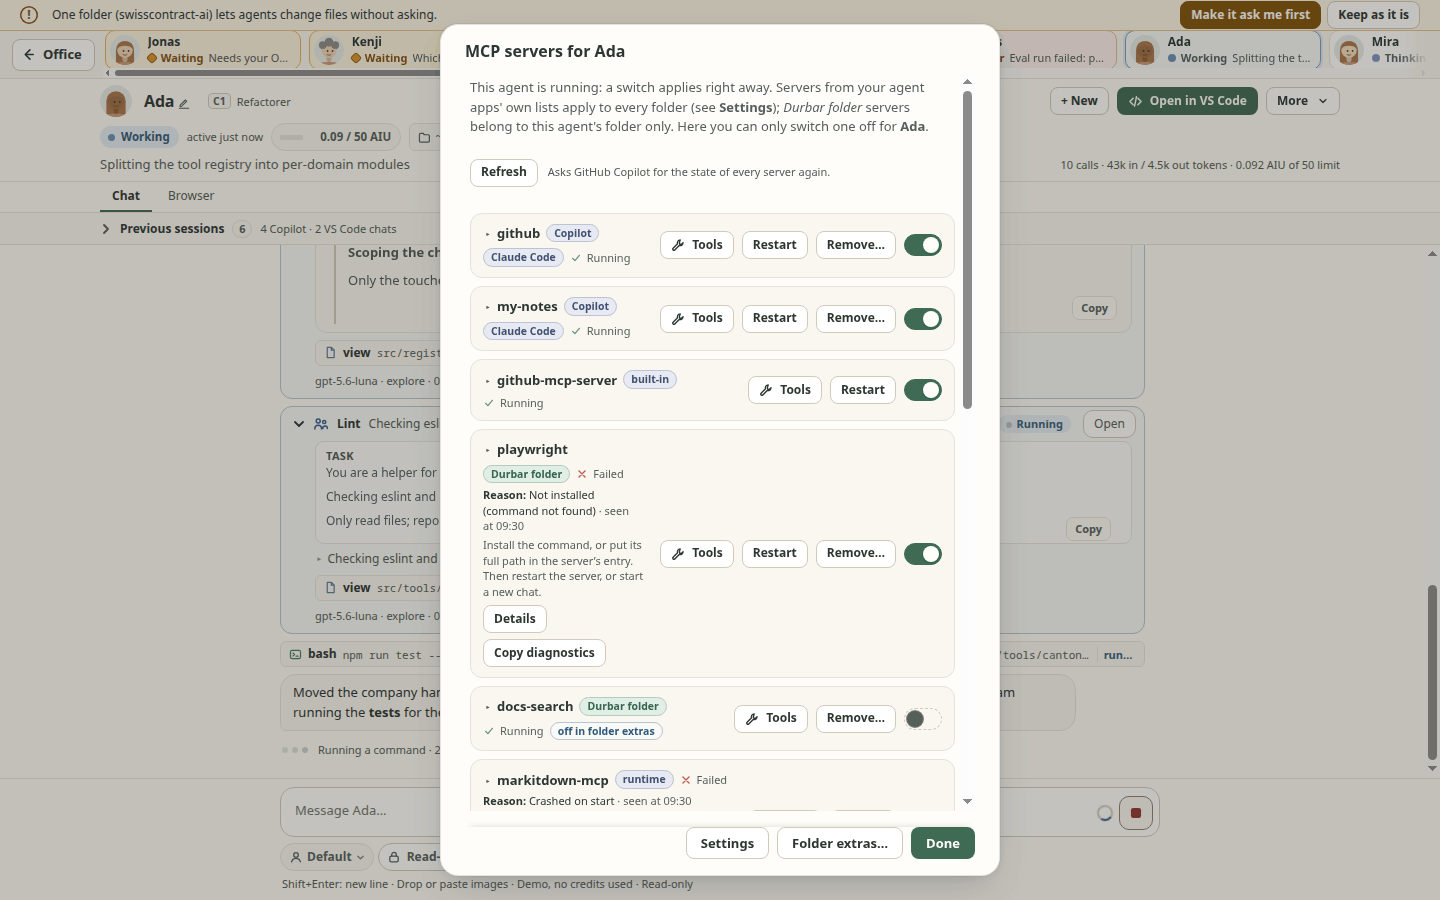
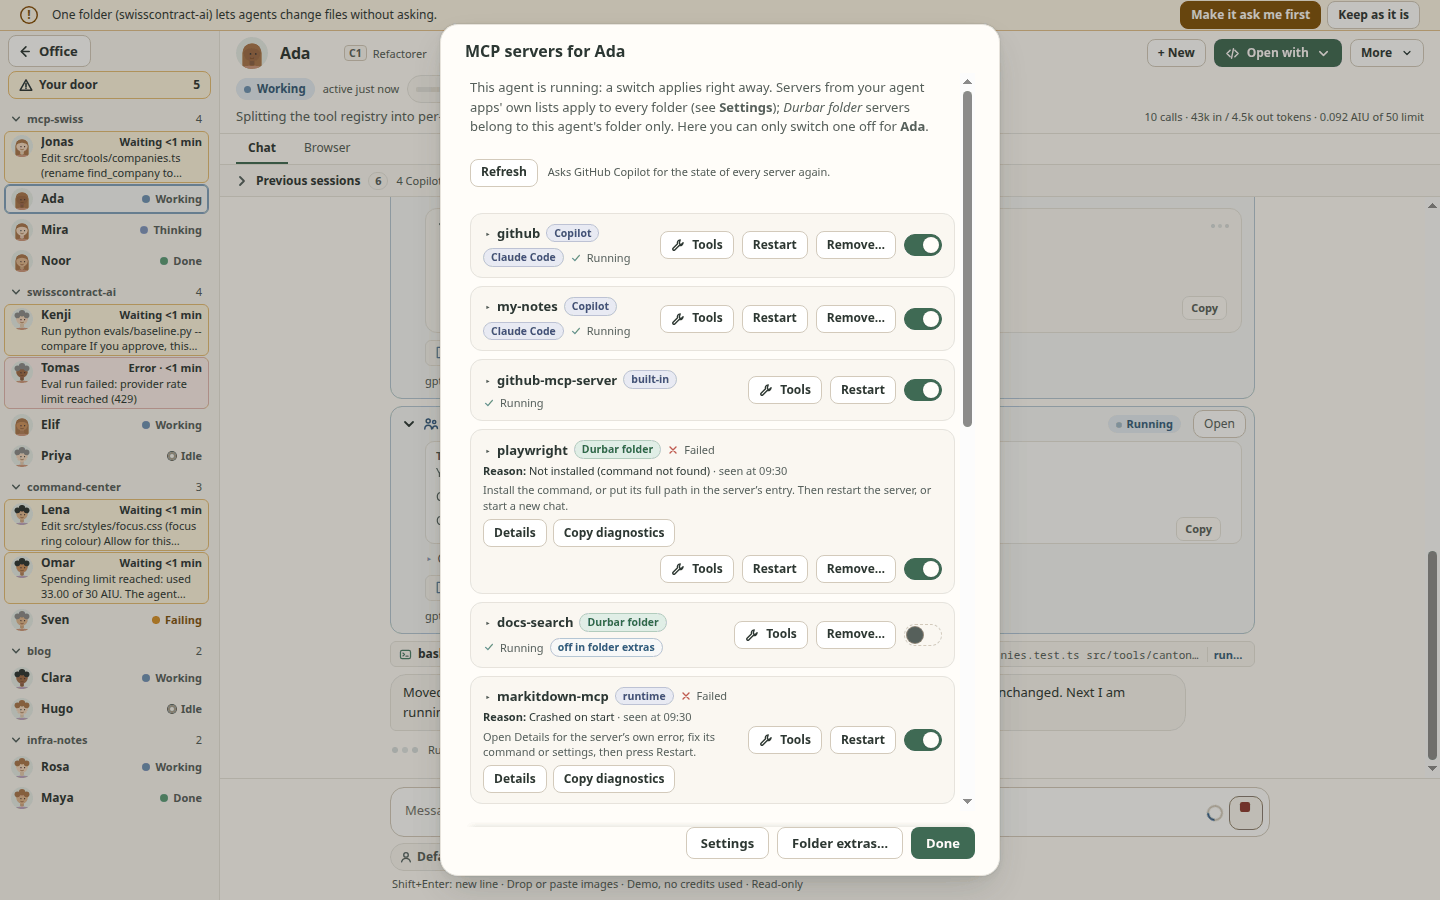
058: a server row keeps a readable text column, the buttons wrap below it (FR-231, #1622)

diff --git a/scripts/check-mcp-row-width.js b/scripts/check-mcp-row-width.js
@@ -1,0 +1,81 @@
+/*
+ * Check for spec 058 (delta 2026-11-12, issue #1622): a failed server's row in a chat's MCP list keeps a readable text column. The name
+ * stays on one line and the help text wraps in full lines; when the buttons do not fit beside the text they wrap below it, they never
+ * squeeze it. Simulator only (no AI credits).
+ *
+ *   npm run check:ui -- --only check-mcp-row-width
+ *   OUT=<folder>  (optional) saves 058-mcp-row-<w>x<h>.png
+ *   MEASURE=1     prints the measured widths and does not assert (for the before/after numbers)
+ *
+ * At 1440x900, 1280x800 and 800x700, in the flat office and Retro: a Copilot chat reports a remote server (shown as `redshift-prod`: its name text is set by hand, the simulator has no long-named remote server) as Failed (refused: needs
+ * sign-in) among a few other servers; the MCP dialog opens and the row's measures are read after two animation frames: the name's text
+ * is on one line, the text column (`.srv-main`) is at least 220px wide (the buttons wrapped below it when they do not fit), the help text
+ * is at most 3 lines, the buttons stay inside the row, nothing is under 10.5px, and the page does not scroll sideways.
+ */
+const assert = require('assert');
+const path = require('path');
+const { helpers, jsLiteral } = require('./driver-helpers');
+const OUT = process.env.OUT || require('os').tmpdir();
+const MEASURE = !!process.env.MEASURE;
+const MIN_TEXT = 220; // px: a readable text column (about 30 characters of 11px text)
+
+const SIZES = [[1440, 900], [1280, 800], [800, 700]];
+const THEMES = [['flat', 'clean-office'], ['retro', 'retro']];
+const SERVERS = [
+  /* the simulator's `?simmcpauth=again` remote server: its row has Tools, Restart, Sign in again..., Remove... and the switch, the widest row there is */
+  { name: 'team-wiki', status: 'failed', transport: 'http', source: 'user', sources: ['copilot'], error: 'connect ECONNREFUSED 127.0.0.1:9' },
+  { name: 'playwright', status: 'failed', transport: 'stdio', source: 'user', error: 'spawn playwright ENOENT', errorClass: 'not-found' },
+  { name: 'tidy', status: 'connected', transport: 'stdio', source: 'user' },
+];
+
+module.exports = async (ctx) => {
+  const H = helpers(ctx);
+  const { js, until } = H;
+  const rowMeasure = (n) => js(`(()=>{const li=[...document.querySelectorAll('#agMcp li.srv')].find(x=>x.dataset.n===${jsLiteral(n)});if(!li)return null;
+    const R=e=>e?e.getBoundingClientRect():null, main=li.querySelector('.srv-main'), act=li.querySelector('.srv-act'), nm=li.querySelector('.srv-name');
+    const lines=e=>{if(!e)return 0;const r=document.createRange();r.selectNodeContents(e);return new Set([...r.getClientRects()].filter(q=>q.width>0).map(q=>Math.round(q.top))).size};
+    const hint=li.querySelector('.srv-hint'), lh=hint?parseFloat(getComputedStyle(hint).lineHeight)||parseFloat(getComputedStyle(hint).fontSize)*1.3:0;
+    const mr=R(main), ar=R(act), lr=R(li);
+    return {row:Math.round(lr.width),text:Math.round(mr.width),act:ar?Math.round(ar.width):0,nameLines:lines(nm),nameW:Math.round(R(nm).width),
+      hintLines:hint?Math.round(hint.getBoundingClientRect().height/lh):0,hintW:hint?Math.round(R(hint).width):0,
+      actBelow:!!ar&&ar.top>=mr.bottom-1, actInside:!!ar&&ar.right<=lr.right+0.5&&ar.left>=lr.left-0.5,
+      btns:[...li.querySelectorAll('.srv-act button')].map(b=>b.textContent.trim()),
+      small:[...li.querySelectorAll('*')].filter(e=>e.getClientRects().length&&[...e.childNodes].some(t=>t.nodeType===3&&t.textContent.trim())&&parseFloat(getComputedStyle(e).fontSize)<10.5).map(e=>e.className),
+      pageX:document.documentElement.scrollWidth<=innerWidth}})()`);
+  const raf2 = () => js(`new Promise(r=>requestAnimationFrame(()=>requestAnimationFrame(()=>r(true))))`);
+
+  for (const [w, h] of SIZES) {
+    for (const [wname, theme] of THEMES) {
+      const tag = `${w}x${h} ${wname}`;
+      await H.load({ w, h, ready: 'fit', focus: true, query: { simmcpauth: 'again' } });
+      await js(`window.THEME.setTheme(${jsLiteral(theme)})`);
+      await H.settle();
+      const cands = await js(`window.__durbarSimUi.agents().filter(a=>a.live&&!a.parent&&(!a.info||!a.info.adapterId||a.info.adapterId==='copilot')).map(a=>a.id)`);
+      const id = cands[0]; // the reported servers below replace whatever the simulator listed for it
+      assert.ok(id, `${tag}: a running Copilot chat: ${JSON.stringify(cands)}`);
+      await js(`document.querySelector(${jsLiteral(`#stage .desk[data-id="${id}"]`)}).click()`);
+      assert.ok(await until(`document.body.classList.contains('panel-open')&&!!document.getElementById('mcpBtn')`), `${tag}: the chat opened with its MCP chip`);
+      await js(`window.__durbarSimEmit({type:'mcp',sessionId:${jsLiteral(id)},timestamp:Date.now(),servers:${jsLiteral(SERVERS)}})`);
+      assert.ok(await until(`!!document.querySelector('#mcpBtn .ct-dot')`), `${tag}: the chip shows the failure`);
+      await js(`document.getElementById('mcpBtn').click()`);
+      assert.ok(await until(`!!document.querySelector('#agMcp li.srv[data-n="team-wiki"] .srv-why')`), `${tag}: the dialog shows the failed row`);
+      await js(`document.querySelector('#agMcp li.srv[data-n="team-wiki"]').scrollIntoView({block:'center'})`);
+      await raf2();
+      await js(`document.querySelector('#agMcp li.srv[data-n="team-wiki"] .srv-name').textContent='redshift-prod'`);
+      await raf2();
+      const m = await rowMeasure('team-wiki');
+      if (MEASURE) console.log(`[1622] ${tag} ${JSON.stringify(m)}`);
+      await H.shot(path.join(OUT, `058-mcp-row-${w}x${h}${wname === 'flat' ? '' : '-' + wname}.png`), { prep: 'mouse', tag: '058' });
+      if (!MEASURE) {
+        assert.ok(m, `${tag}: the row is there`);
+        assert.strictEqual(m.nameLines, 1, `${tag}: the server name is on one line ${JSON.stringify(m)}`);
+        assert.ok(m.text >= MIN_TEXT, `${tag}: the text column is at least ${MIN_TEXT}px wide, not squeezed by the buttons ${JSON.stringify(m)}`);
+        assert.ok(m.hintLines >= 1 && m.hintLines <= 3, `${tag}: the help text wraps in at most 3 lines ${JSON.stringify(m)}`);
+        assert.ok(m.actInside, `${tag}: the buttons stay inside the row ${JSON.stringify(m)}`);
+        assert.ok(m.small.length === 0 && m.pageX, `${tag}: no text under 10.5px, no sideways page scroll ${JSON.stringify(m)}`);
+      }
+      await js(`(()=>{const b=[...document.querySelectorAll('#scrDlg .dbtn .btn')].find(x=>x.textContent==='Done');if(b)b.click();})()`);
+    }
+  }
+  console.log('[058] mcp row width PASS');
+};

diff --git a/src/renderer/screens.css b/src/renderer/screens.css
@@ -26,16 +26,17 @@ body.screen-open .workspace{display:none}
 
 /* server rows */
 .srvs{list-style:none;margin:8px 0 0;padding:0;display:flex;flex-direction:column;gap:8px}
-.srv{display:flex;align-items:center;gap:12px;padding:10px 12px;border:1px solid var(--line);border-radius:12px;background:var(--surface-2)}
+.srv{display:flex;flex-wrap:wrap;align-items:center;gap:8px 12px;padding:10px 12px;border:1px solid var(--line);border-radius:12px;background:var(--surface-2)}
 .srv.amb{background:var(--tone-neutral-faint)}
 .srv-main{flex:1;min-width:0;display:flex;flex-direction:column;gap:4px}
+.srv:has(.srv-why,.srv-hint,.srv-det) .srv-main{flex-basis:240px} /* spec 058 FR-231 (#1622): a row with a reason, help or details text keeps 240px for it; the buttons wrap below when they do not fit beside it. A row with only a name and a state stays on one line */
 .srv-top{display:flex;align-items:center;gap:6px;flex-wrap:wrap;min-width:0}
 .srv-name{font-size:13px}
 .srv-cmd{font:11px/1.35 var(--font-mono);color:var(--ink-2);overflow-wrap:anywhere;white-space:pre-wrap}
 .srv-secrets{display:flex;flex-wrap:wrap;gap:5px}
 .sec{display:inline-flex;gap:6px;align-items:center;height:20px;padding:0 8px;border-radius:var(--r-sm);background:var(--surface-2);border:1px solid var(--line);font:11px var(--font-mono);color:var(--ink-2)}
 .sec i{font-style:normal;letter-spacing:.06em;color:var(--muted)}
-.srv-act{display:flex;align-items:center;gap:8px;flex:none}
+.srv-act{display:flex;flex-wrap:wrap;justify-content:flex-end;align-items:center;gap:8px;flex:none;max-width:100%;margin-left:auto} /* spec 058 FR-231 (#1622): the text column keeps 240px; the buttons wrap below it when they do not fit beside it */
 .mtag{display:inline-block;font-size:10.5px;font-weight:650;padding:1px 7px;border-radius:999px;background:var(--tone-info-faint);border:1px solid var(--tone-info-line);color:var(--tone-info-ink)}
 .mtag.warn{background:var(--tone-warn-bg);border-color:var(--tone-warn-line);color:var(--tone-warn-ink)}
 .swt{--switch-on:var(--accent);--switch-off:var(--tone-neutral-track);position:relative;width:38px;height:22px;border-radius:999px;border:1px solid var(--line-2);background:var(--switch-off);cursor:pointer;padding:0;flex:none;transition:background .15s}

diff --git a/scripts/ui-suite.js b/scripts/ui-suite.js
@@ -129,6 +129,7 @@ const DRIVERS = [
   { name: 'shots-069-harmonize' }, // spec 069 part 2: copy servers between the agent apps' lists
   { name: 'shots-069-mcp-tools' }, // spec 069 part 3: tools on expand, Remove in the agent dialog (058's state words and Details stay)
   { name: 'shots-059-long-url' }, // spec 059 FR-019: a long unbroken name stays in its card, the inbox and the Schedules rows
+  { name: 'check-mcp-row-width' }, // spec 058 delta 2026-11-12 (#1622): a failed server's row keeps a readable text column; the buttons wrap below it
   { name: 'check-activity-table' }, // spec 052 FR-071 delta 2026-10-21 (#474): Tools > Activity renders its rows
   { name: 'check-codex-file-card' }, // spec 052 FR-172: a Codex write card names the files and shows the change
   { name: 'check-theme-art' }, // spec 040 FR-023: a picked theme's characters and gadgets on desks, walkers, places and chips

diff --git a/specs/058-mcp-session-controls/tasks.md b/specs/058-mcp-session-controls/tasks.md
@@ -645,4 +645,4 @@ apps, as T176 allows) after them.
 - [x] T210 Review of PR #1230 (FR-229 e..i): block respects state, switch and org policy; `connected` for a blocked connected server is not a fix; `clearKey` per server key; wait/off/policy/toolCall mutants get asserts; press text for a session not running and Sign in again. Tests in `test:mcpsignin`, `test:mcpwords`, `test:mcpsigninrefresh`; 12 more mutants killed. The cross-folder case is tested through `registerMcpIpc` (a same-name server blocked in another folder keeps its block; the by-name-clear mutant is killed). Claude Code real run [KNOWN GAP].
 - [x] T211 Second review round of PR #1230 (FR-229 j..l): fail-closed cases (stdio, no transport, builtin, source unknown) with M9/M10 mutants killed by their asserts; an explicit `again=true` for a blocked server obeys `canSignInAgainStatus`; shared `isRemoteTransport` (`src/shared/mcp.ts`, streamable-http); a renewal in flight writes no stale block over a call that worked (`test:mcpsigninrefresh`). The simulator's `isRemoteTransport` copy is compared with the shared one by source text and by answers; `isRemoteTransport` and the race guard's equal-tick boundary have labelled asserts.
 - [x] T212 Issue #1424 item 1 (FR-230): `shots-058-mcp-launch` takes the list-open and Settings pictures again in the Photo Real office (`058-mcp-launch-real-*`, `058-mcp-launch-settings-real-*`; not committed, not linked), with a labelled assert that the world is the Real office and the strip layout asserts. Mutant: `setOfficeView('real')` made a no-op fails the labelled assert. `[KNOWN GAP]` dark, density, DPR 2, Windows, Linux, streaming end-follow picture stay on #1424.
-- [ ] T213 Issue #1622 (FR-231): `.srv` wraps, `.srv-main` keeps 240px, `.srv-act` wraps below it (`screens.css`); `check-mcp-row-width` measures name, text column and help lines at 1440x900, 1280x800 and 800x700 in the flat office and Retro, with a mutant (the fix dropped) failing at its labelled assert.
+- [x] T213 Issue #1622 (FR-231): `.srv` wraps, `.srv-main` keeps 240px, `.srv-act` wraps below it (`screens.css`); `check-mcp-row-width` measures name, text column and help lines at 1440x900, 1280x800 and 800x700 in the flat office and Retro, with a mutant (the fix dropped) failing at its labelled assert.

diff --git a/specs/058-mcp-session-controls/spec.md b/specs/058-mcp-session-controls/spec.md
@@ -2310,5 +2310,5 @@ and open PRs, 2026-11-11): **FR-230** and **T212**.
 
 **Cause (read in code, then measured in the simulator):** `.srv` is a non-wrapping flex row (`screens.css`), `.srv-act` is `flex:none` and `.srv-main` takes only what is left. With the widest button set (Tools, Restart, Sign in again..., Remove...) the buttons are about 306 to 310 px of a 478 px row, so the text column was 134 px and the help text 6 lines (measured in the chat's MCP dialog at 1440x900, 1280x800 and 800x700, flat office and Retro: the dialog is the same width at every window size). The same `.srv` row is used by the Settings lists of the agent apps' servers.
 
-- **FR-231 (2026-11-12)** `[IMPLEMENTED]` `test: check-mcp-row-width` `sim:` the text column of a server row never gets narrower than 240 px of the row's room (`flex:1 1 240px`); when the buttons do not fit beside it the row wraps and the buttons (Tools, Restart, Sign in again..., Remove..., the switch) sit on their own line below, right aligned. A row where everything fits stays on one line as before. Text stays at 11px or more (10.5px floor), nothing overlaps, no page scroll, the dialog still scrolls inside itself. The same approach as the Tools > Activity width fix (#1466, FR-071: a minimum width for the text-bearing column and wrapping instead of squeezing).
+- **FR-231 (2026-11-12)** `[IMPLEMENTED]` `test: check-mcp-row-width` `sim:` the text column of a server row never gets narrower than 240 px of the row's room (`flex-basis:240px` on a row that has reason, help or details text); when the buttons do not fit beside it the row wraps and the buttons (Tools, Restart, Sign in again..., Remove..., the switch) sit on their own line below, right aligned. A row with only a name and a state (no text under it), or where everything fits, stays on one line as before. Text stays at 11px or more (10.5px floor), nothing overlaps, no page scroll, the dialog still scrolls inside itself. The same approach as the Tools > Activity width fix (#1466, FR-071: a minimum width for the text-bearing column and wrapping instead of squeezing).
 - `[KNOWN GAP]` Windows and macOS font widths are not measured (Linux fonts in the simulator): a different font changes the line counts, not the rule.

diff --git a/changelog.d/058-1622-mcp-row-wrap.md b/changelog.d/058-1622-mcp-row-wrap.md
@@ -1,0 +1,1 @@
+- A failed server's row in the MCP list keeps a readable text column: the name and the help text no longer get squeezed by the buttons, which wrap below the text when they do not fit beside it.
